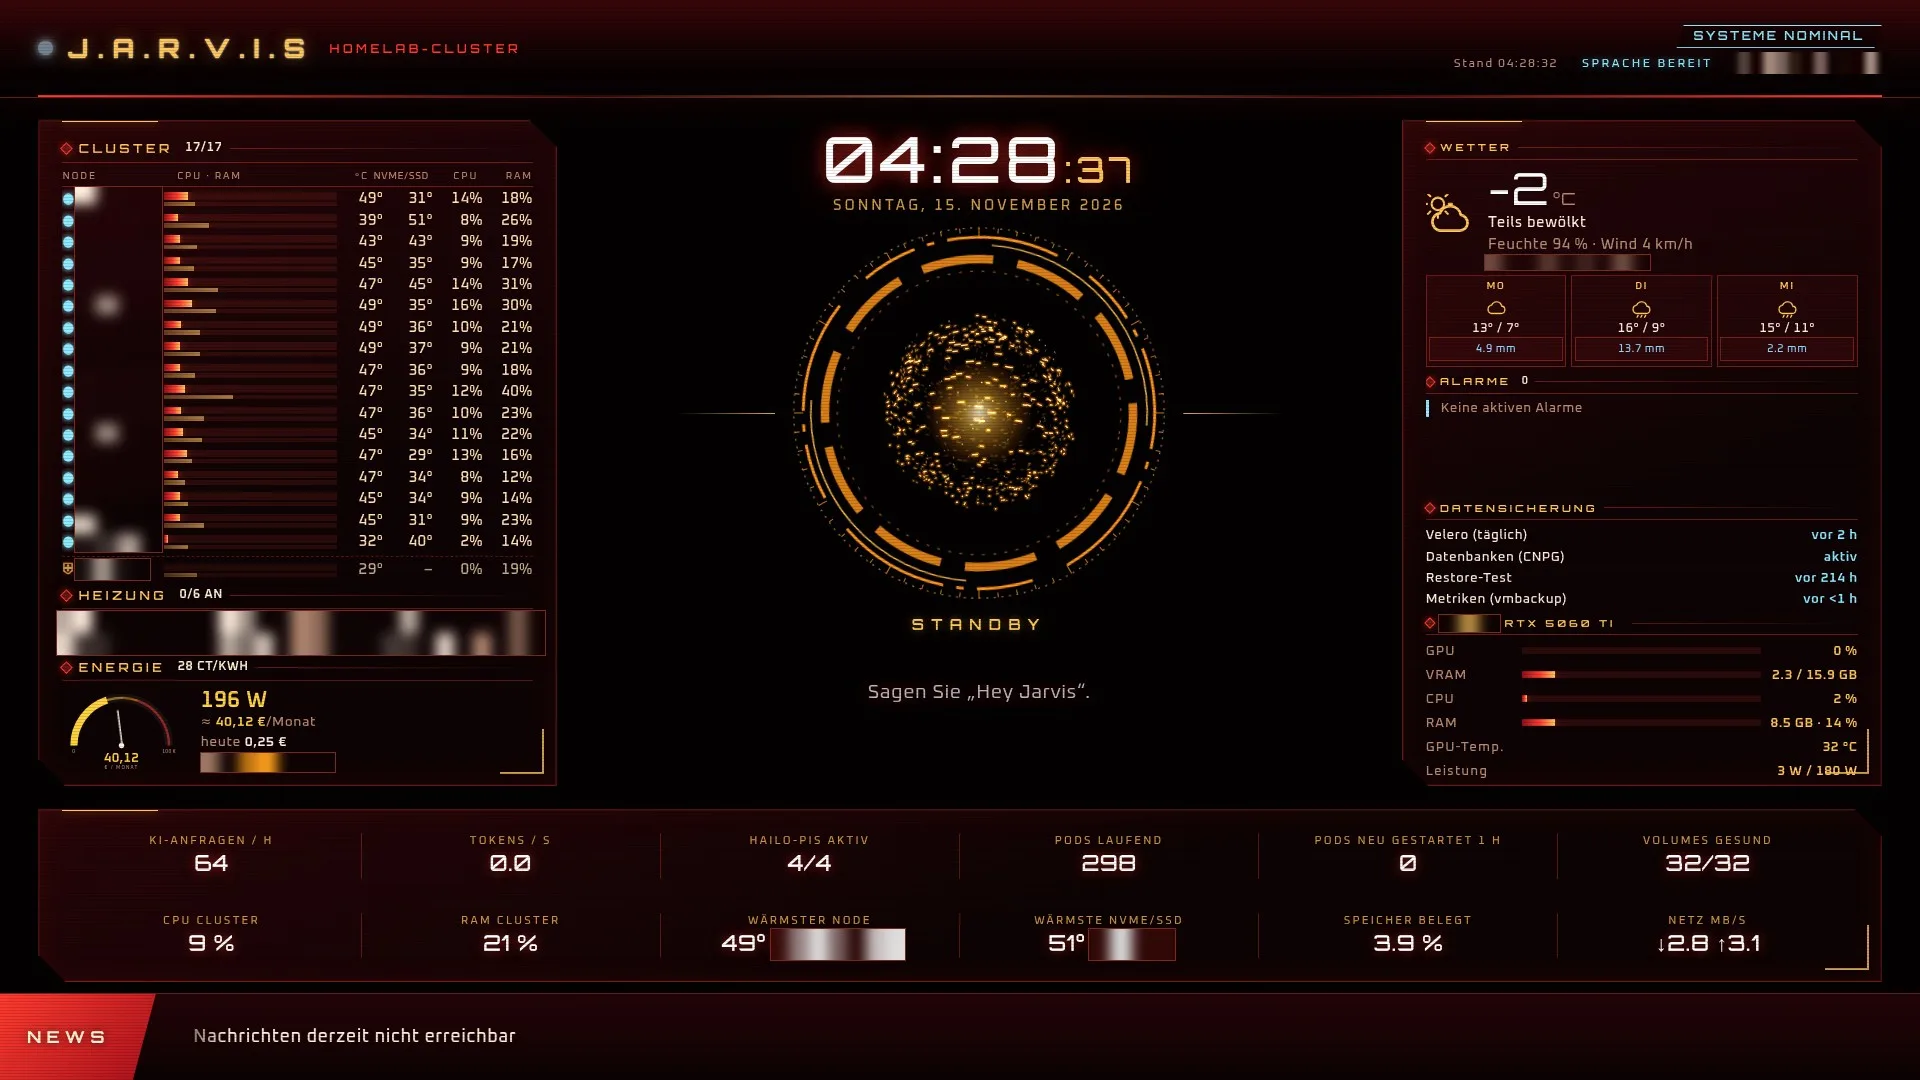
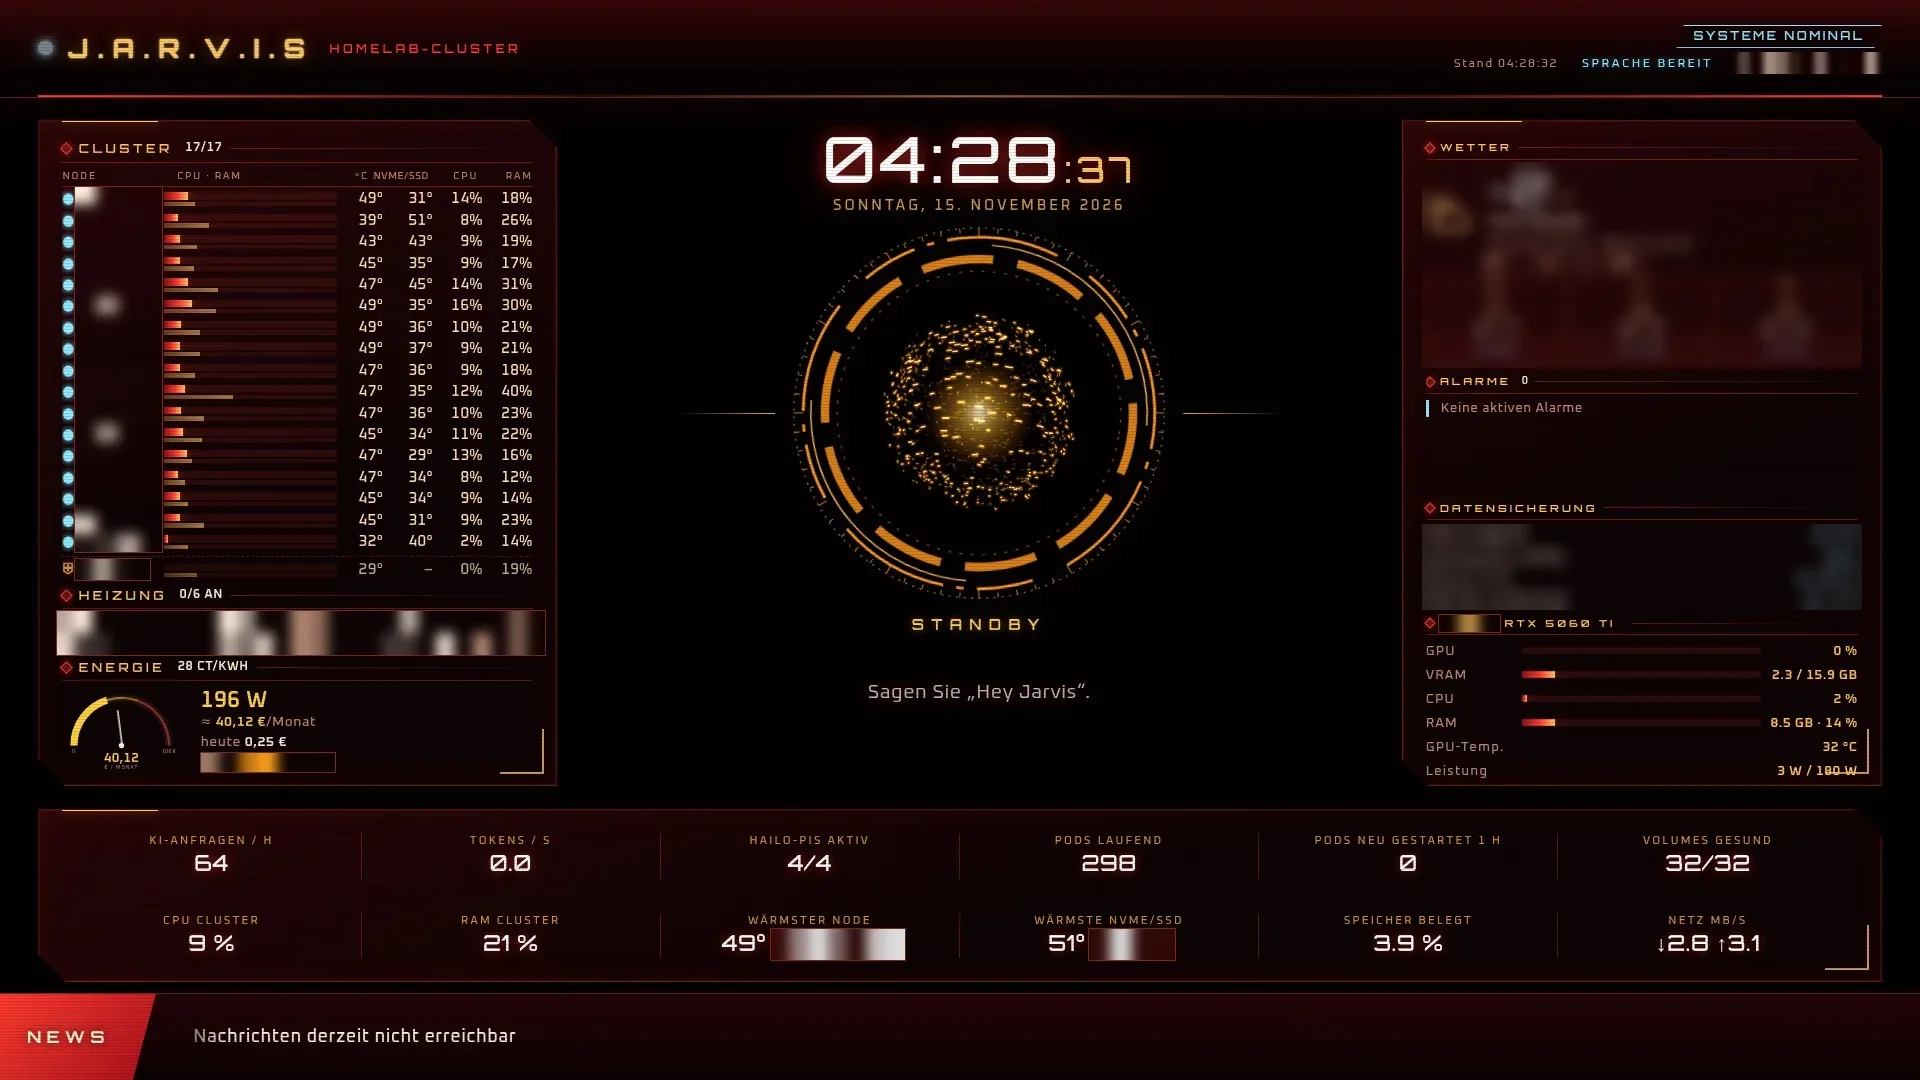
Hide backup and weather details in HUD screenshots and simulation
- Both HUD screenshots: weather panel and backup panel pixelated (backup
  tooling, schedule, last-run times and restore-test age, location hint)
- Simulated HUD: backup rows show neutral labels with OK/active status
  instead of tool names, intervals and timestamps (all 5 locales)

Claude-Session: https://claude.ai/code/session_01M4YmYitLHZQZaxL3iS2pSH

Changed region(s): [[0.7188, 0.1528, 0.9688, 0.3361], [0.7188, 0.4583, 0.8125, 0.5806], [0.9375, 0.4889, 0.9688, 0.5806]]

diff --git a/src/components/landing/JarvisConsole.tsx b/src/components/landing/JarvisConsole.tsx
@@ -214,10 +214,11 @@ export function JarvisConsole() {
             <div className={heading} style={{ color: GOLD }}>◇ {t("hud.console.backup")}</div>
             <dl className="mt-2 space-y-1 text-xs">
               {[
-                [t("hud.console.velero"), t("hud.console.hoursAgo", { h: 6 })],
+                // Status only: tool names, intervals and timestamps stay private.
+                [t("hud.console.velero"), t("hud.console.ok")],
                 [t("hud.console.cnpg"), t("hud.console.active")],
-                [t("hud.console.restore"), t("hud.console.hoursAgo", { h: 86 })],
-                [t("hud.console.metrics"), t("hud.console.hoursAgo", { h: 16 })],
+                [t("hud.console.restore"), t("hud.console.ok")],
+                [t("hud.console.metrics"), t("hud.console.ok")],
               ].map(([k, v]) => (
                 <div key={k} className="flex justify-between gap-2">
                   <dt>{k}</dt>
